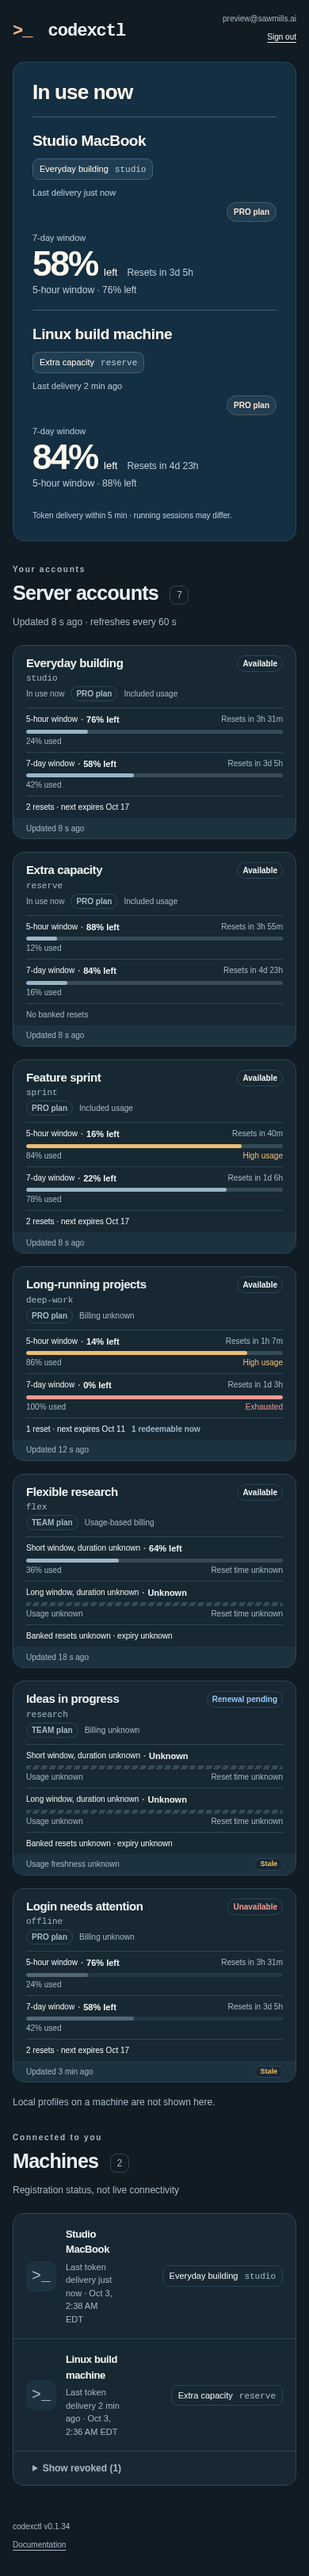
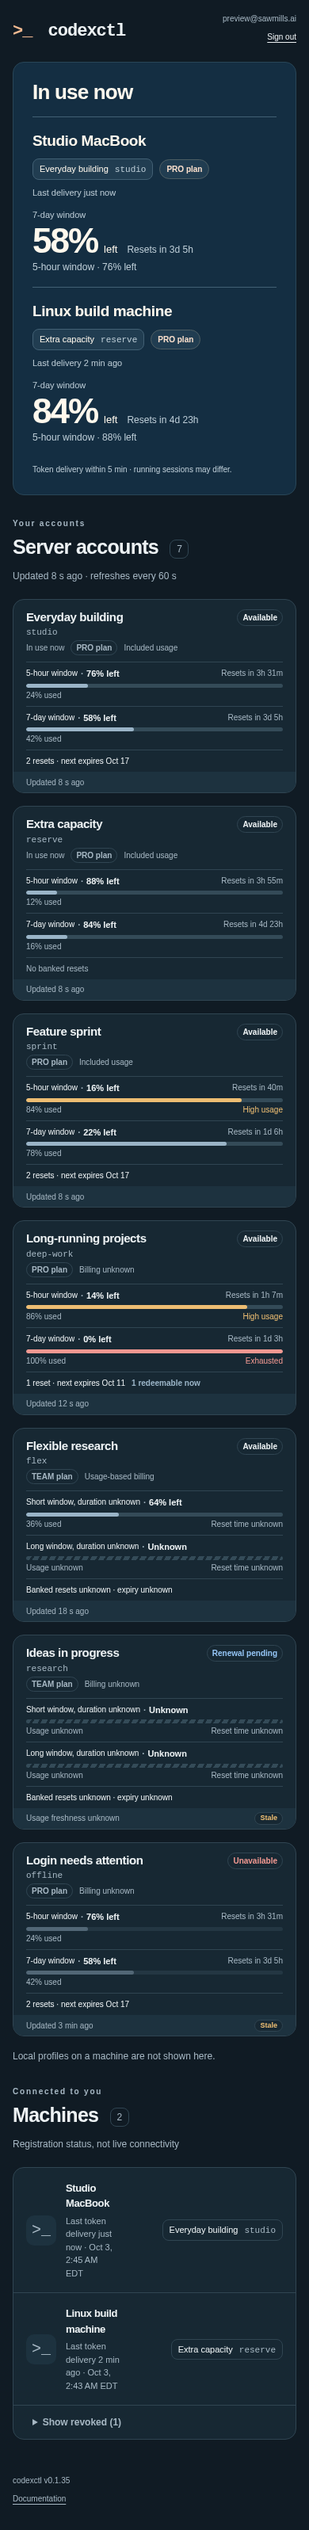
docs: refresh B16 screenshots on v0.1.35

diff --git a/docs/screenshots/b16/guidelines-review.md b/docs/screenshots/b16/guidelines-review.md
@@ -100,11 +100,11 @@ clarification and all items in `/home/amir/b16-design-review-1.md` and `/home/am
    keep their own pills; hero pills hug the text.
 3. PASS — account and plan chips share a row at every checked width.
 4. PASS — footer uses `CARGO_PKG_VERSION`; HTTP test checks the rendered footer on both
-   routes against the build version. This branch remains v0.1.34; release metadata was not changed.
+   routes against the build version. After rebasing on main, the build and footer are v0.1.35; release metadata was not edited.
 
-Only the four requested images were recaptured for round 2: `landing-light.png`,
-`landing-light-phone.png`, `accounts-error-stale.png`, and
-`accounts-dark-phone-first-screen.png`. Other images retain the round 1 capture.
+HQ passed design review after the four requested round-2 captures. All 12 images
+were then recaptured from the v0.1.35 build after rebasing on main, so the PR images
+show the final layout and current build footer.
 
 ## Execution evidence
 
